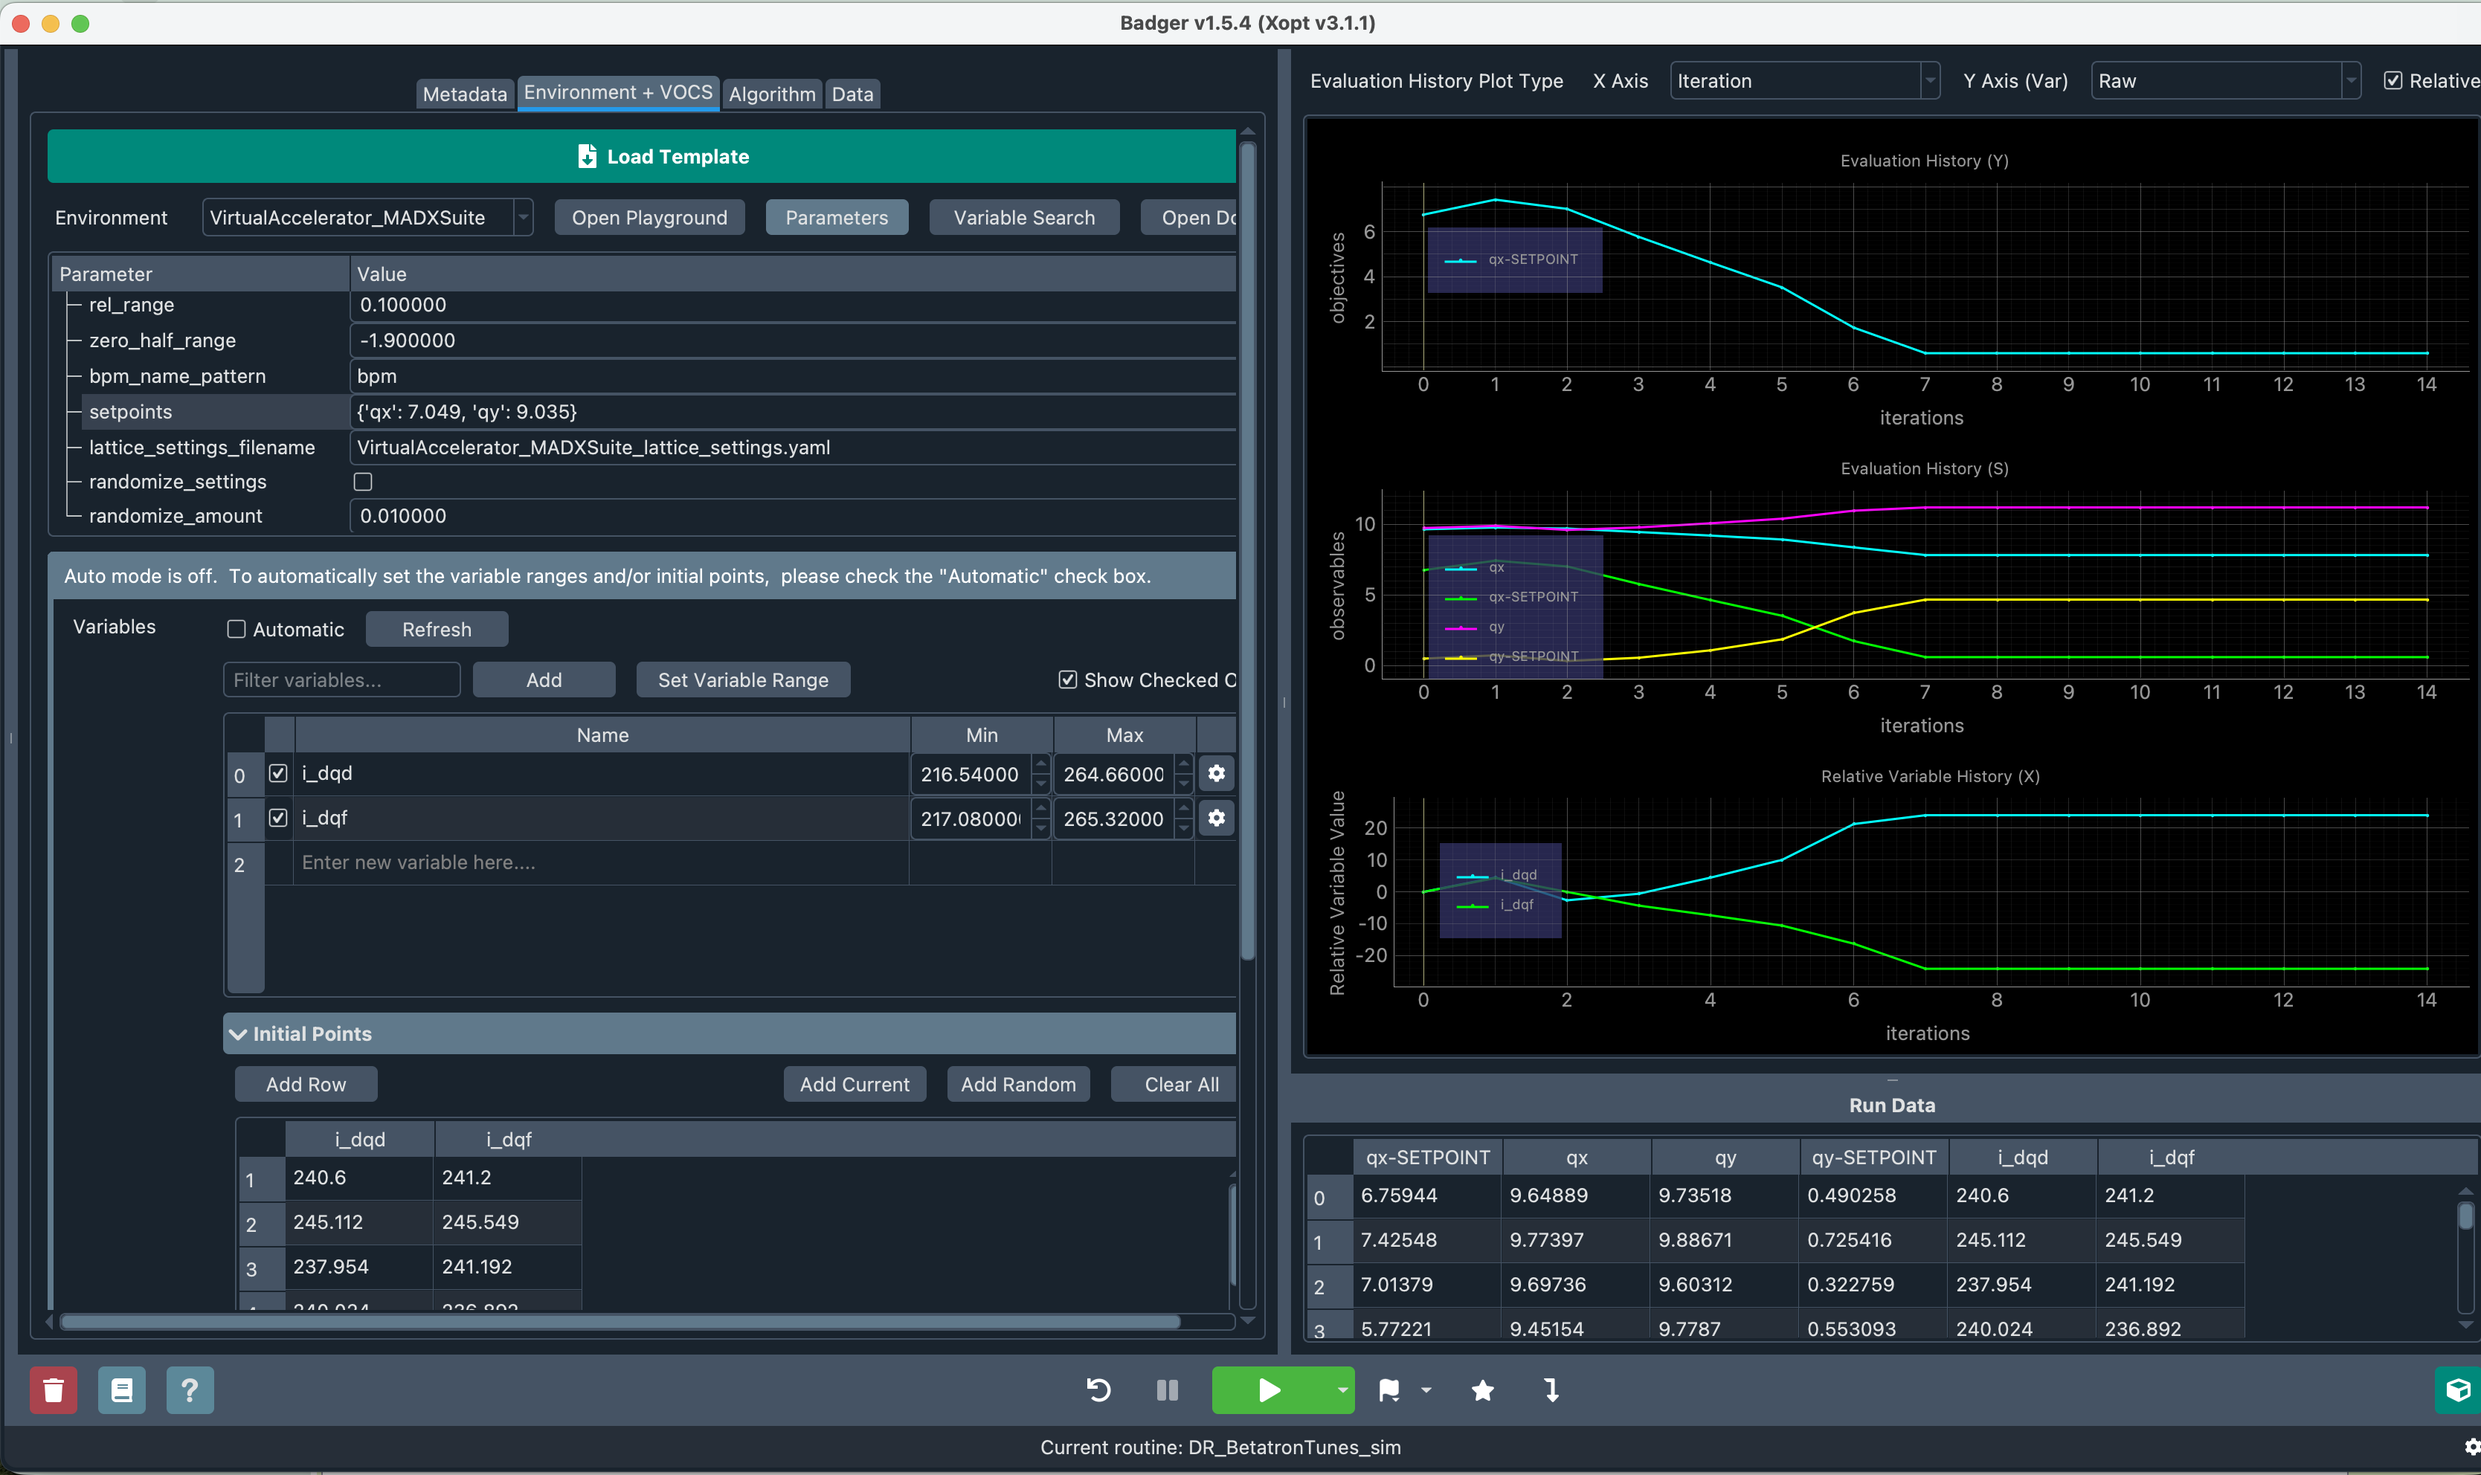
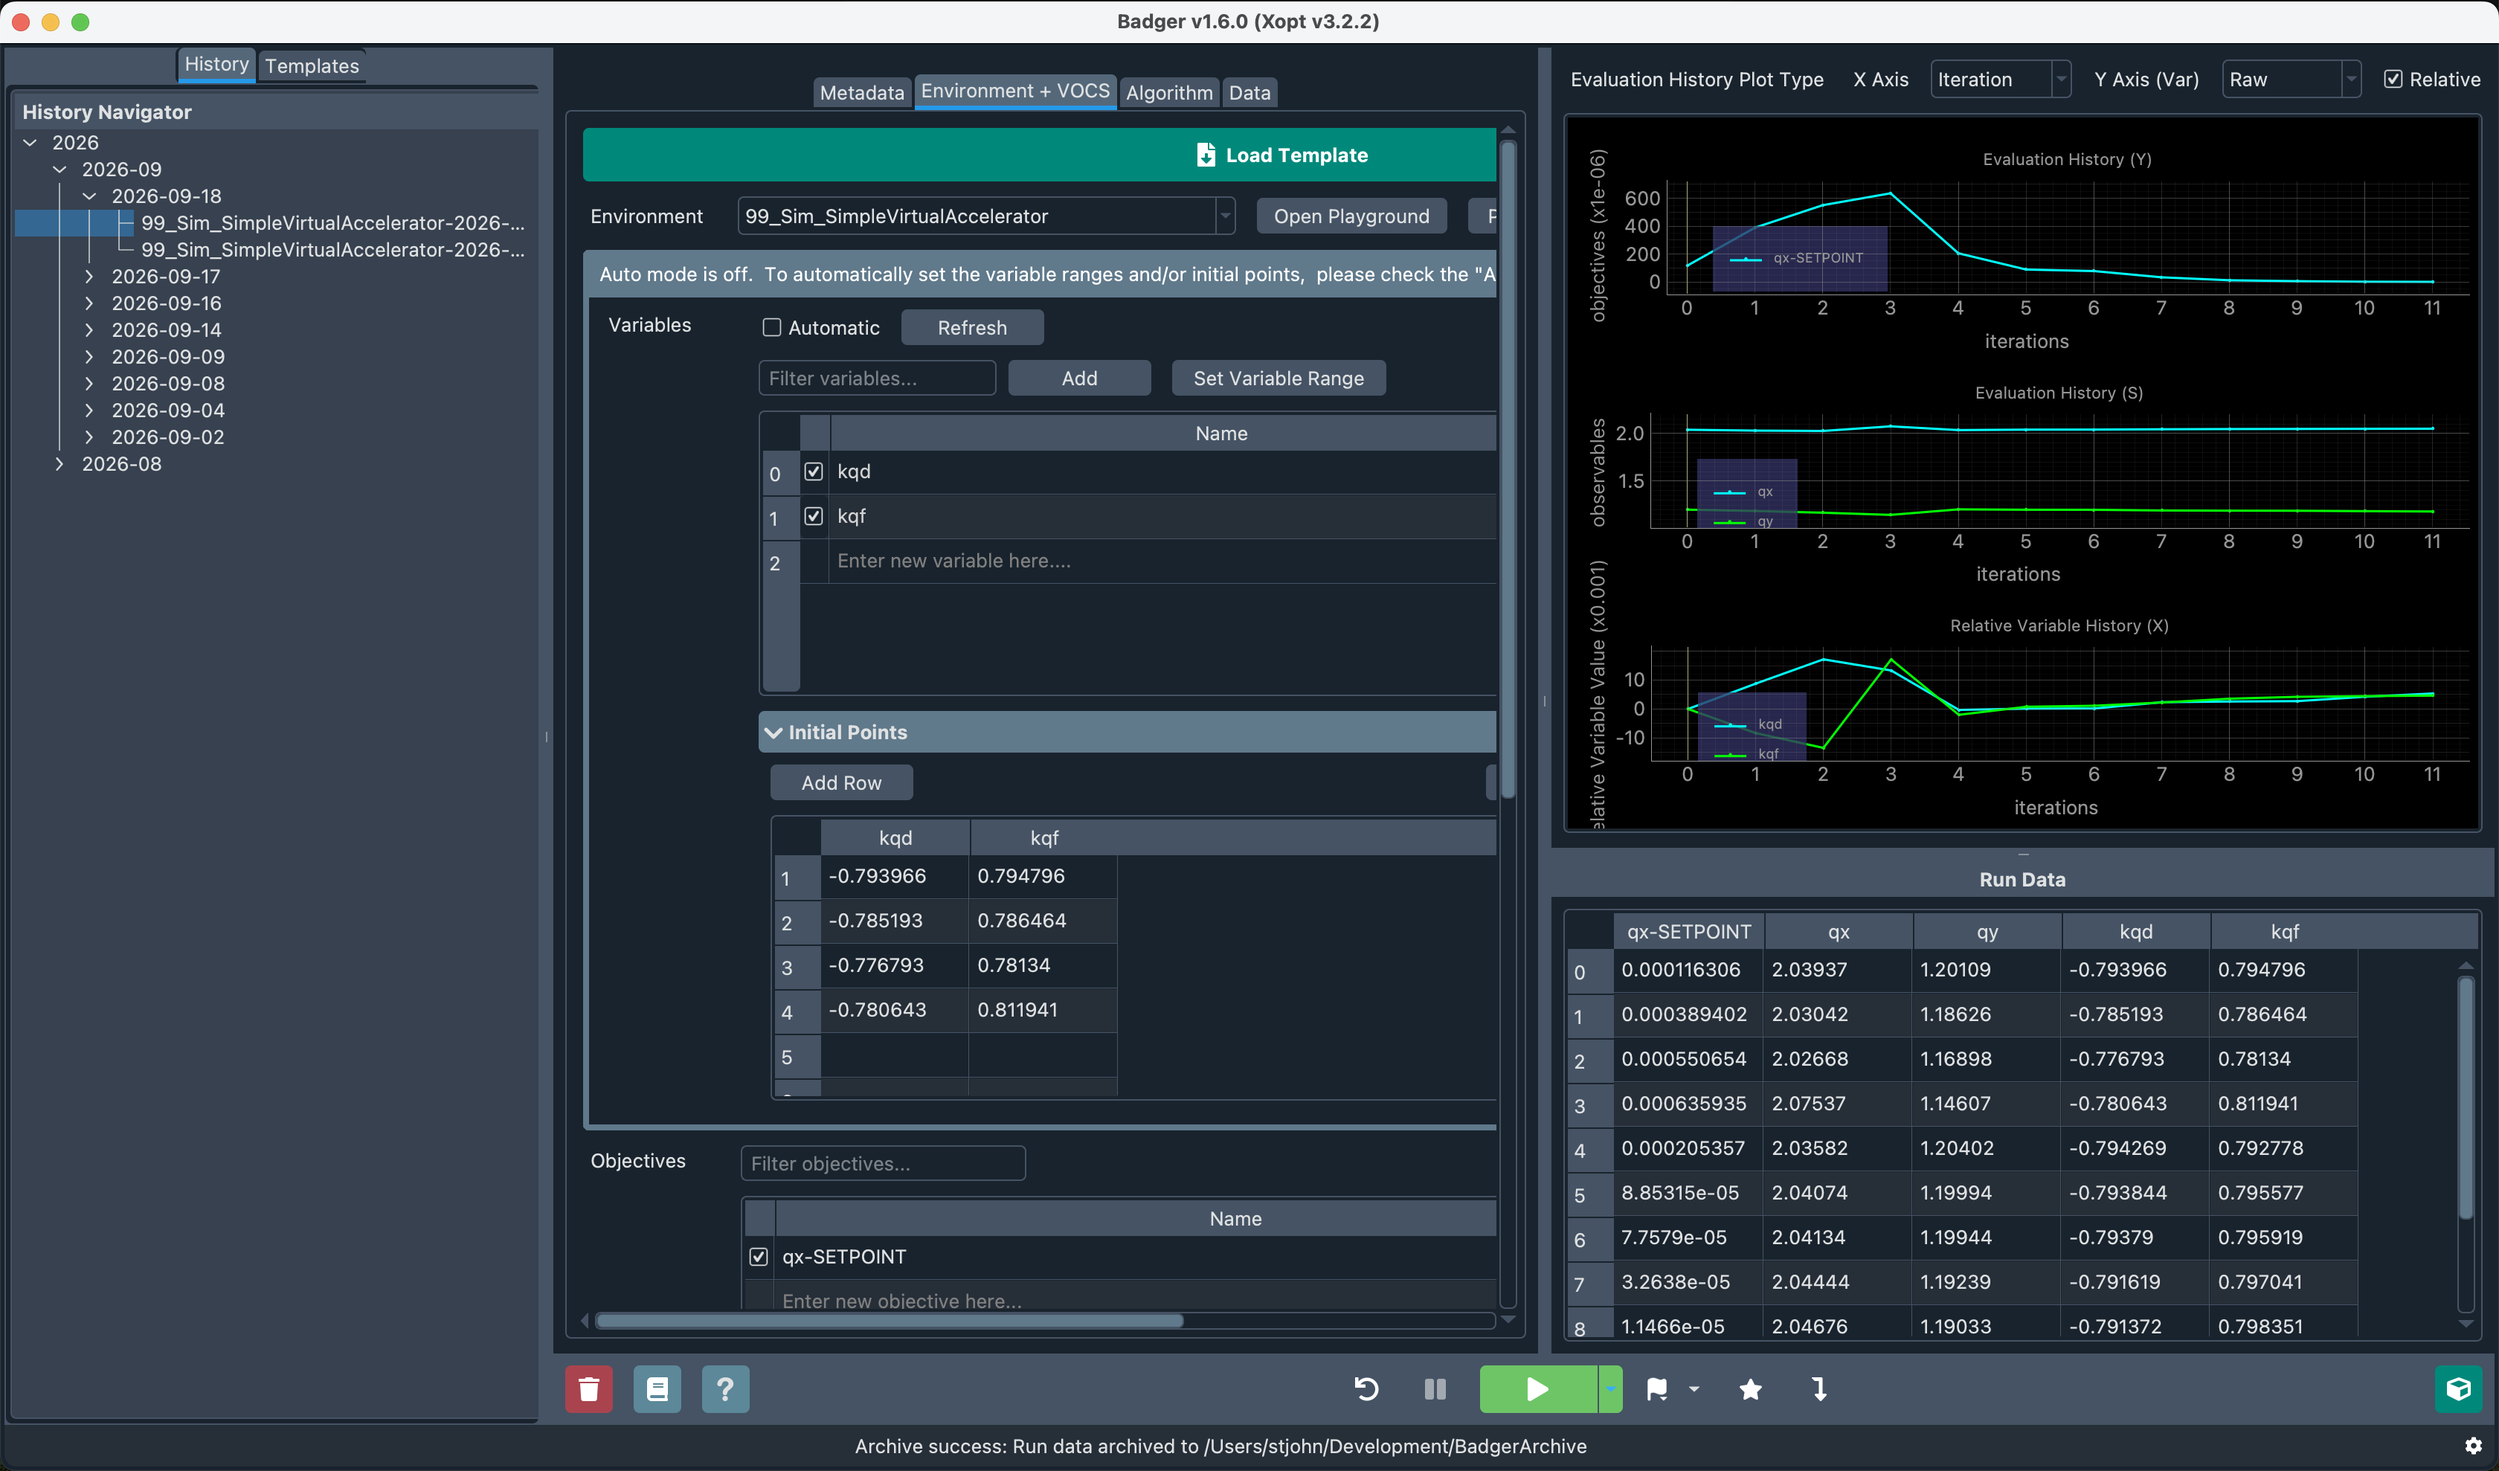
README: update gui-full.png, stack GUI screenshots vertically
The new gui-full.png is a more representative capture of the full GUI.
Stacking the two screenshots in one column instead of two side-by-side
columns lets each render bigger (320px vs 200px) instead of being
squeezed to fit next to its sibling.

diff --git a/README.md b/README.md
@@ -22,16 +22,13 @@ This repository contains plugins and configurations for using [Badger](https://g
 - [Related Documentation](#related-documentation)
 
 </td>
-<td align="center" width="220">
+<td align="center" width="340">
 
 <code>badger -g</code><br>
-<img src="docs/images/gui-full.png" width="200" alt="badger -g: full GUI">
-
-</td>
-<td align="center" width="220">
+<img src="docs/images/gui-full.png" width="320" alt="badger -g: full GUI">
 
 <code>badger -mini</code><br>
-<img src="docs/images/gui-mini.png" width="200" alt="badger -mini: compact GUI">
+<img src="docs/images/gui-mini.png" width="320" alt="badger -mini: compact GUI">
 
 </td>
 </tr>
